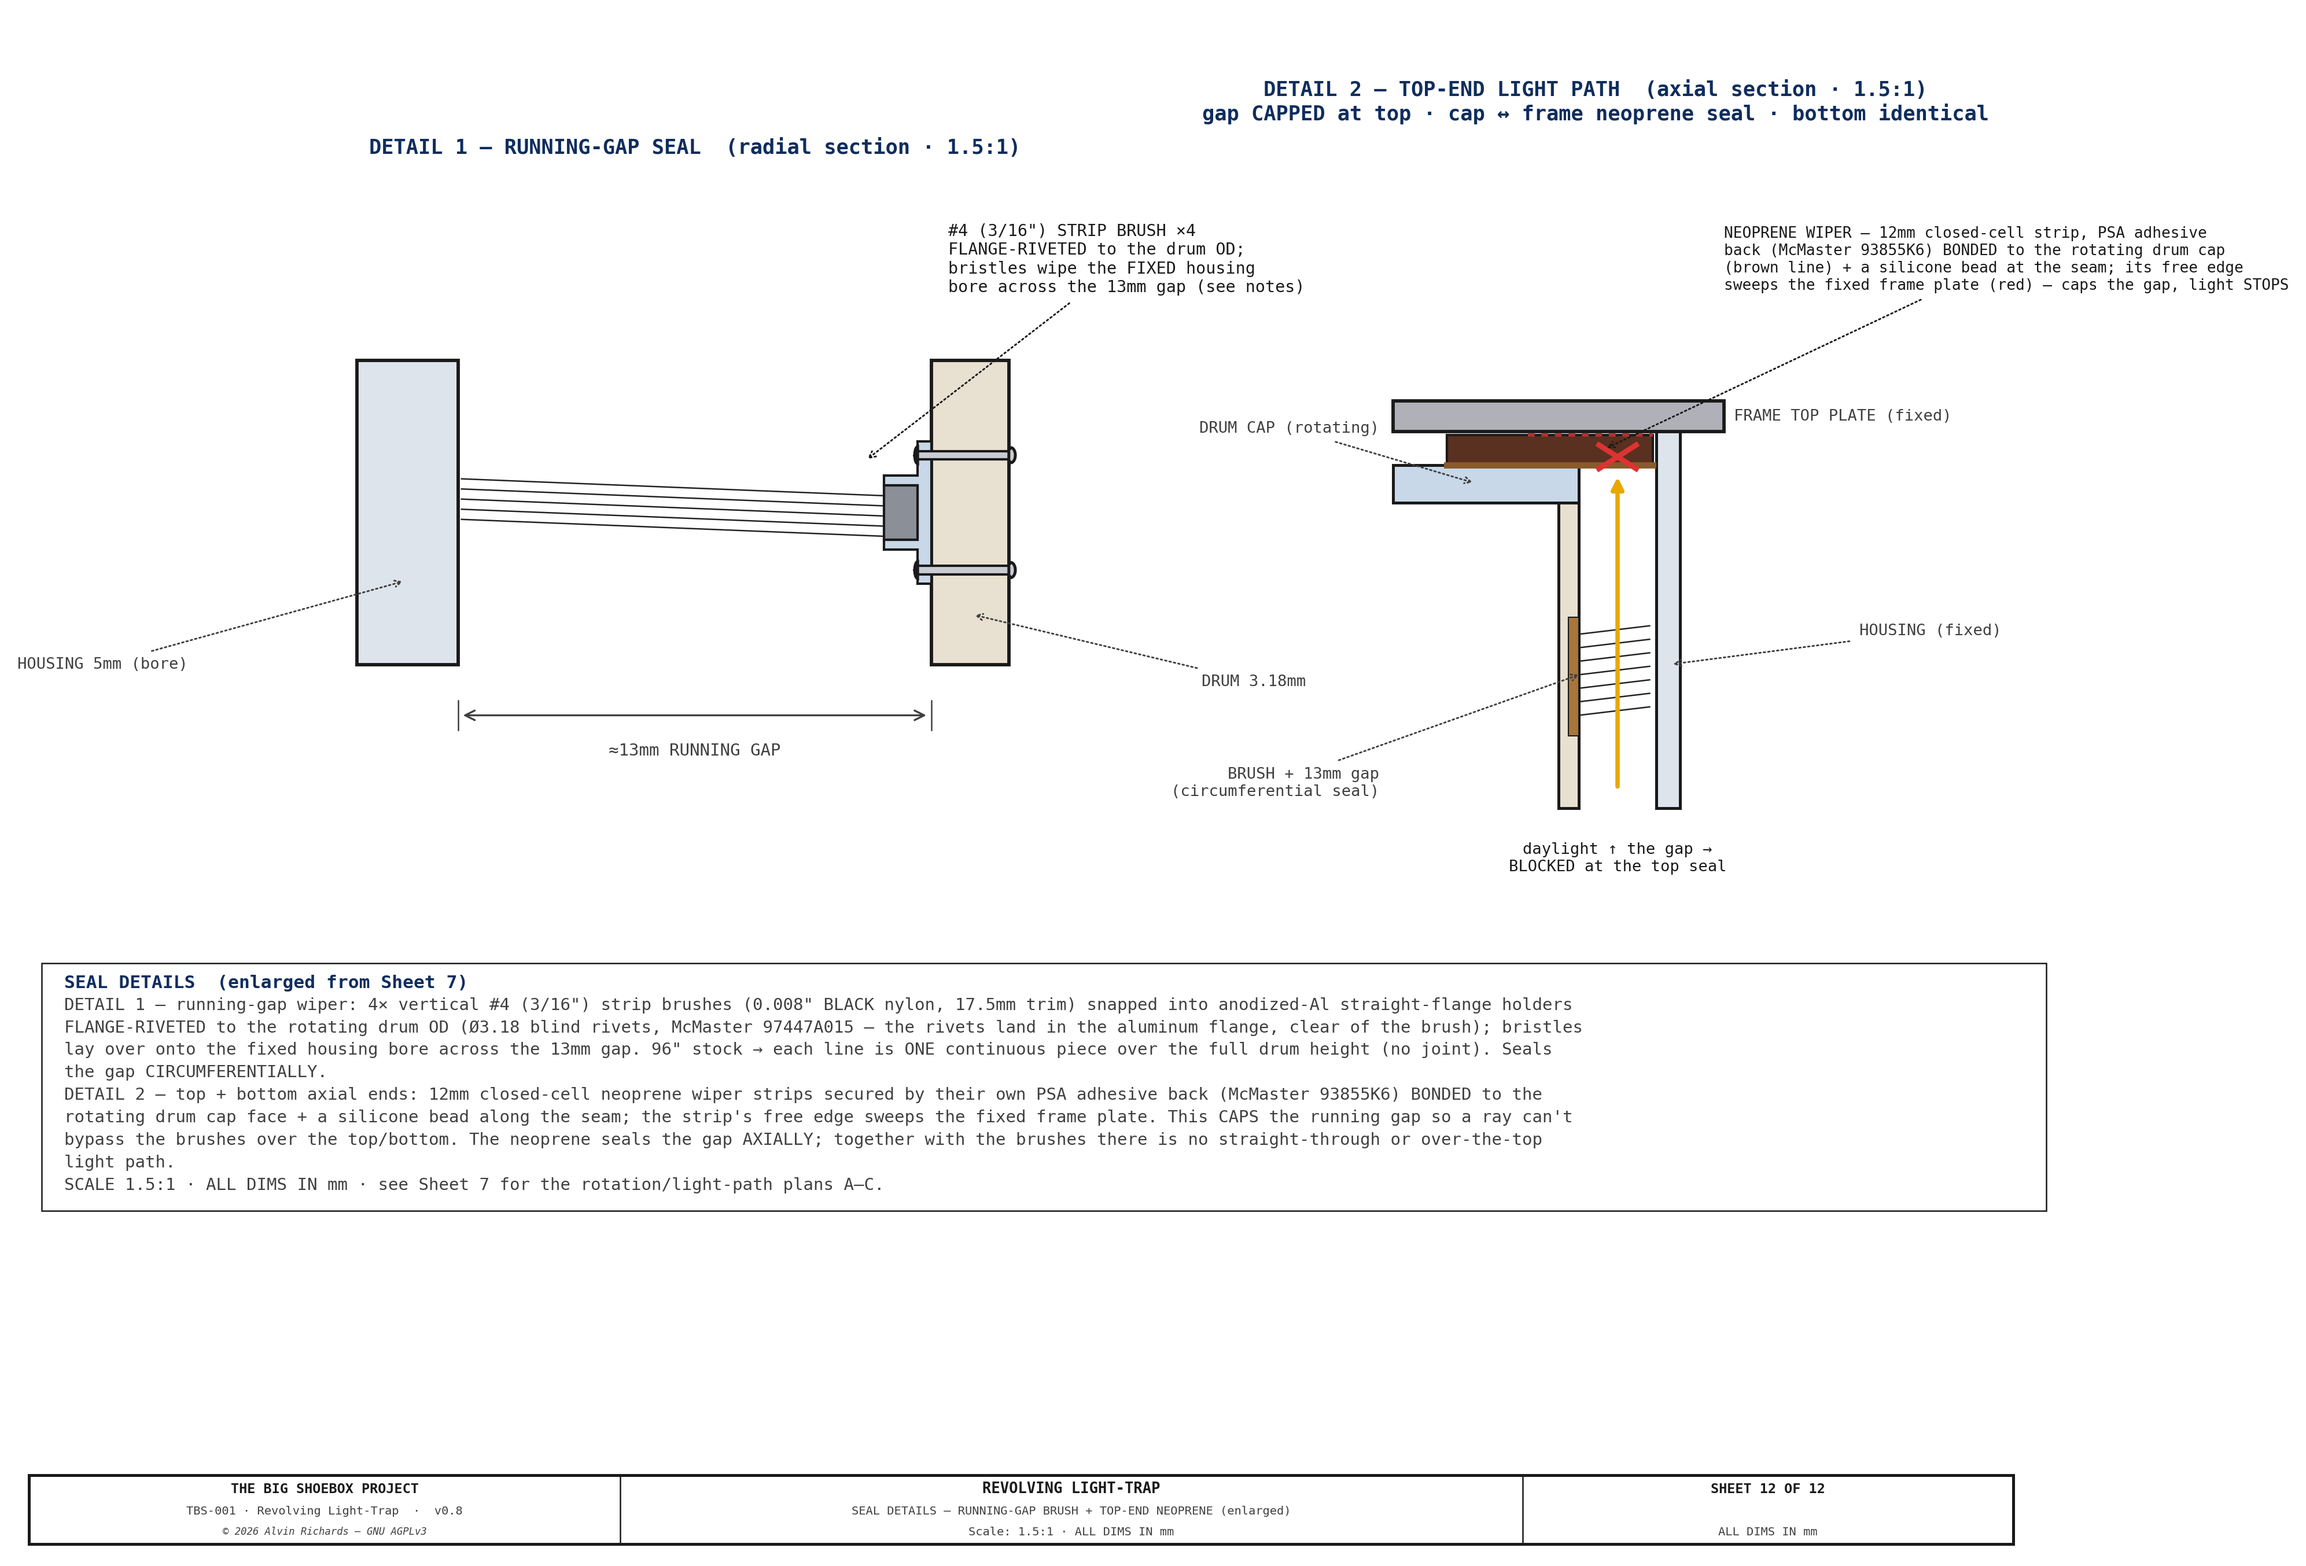
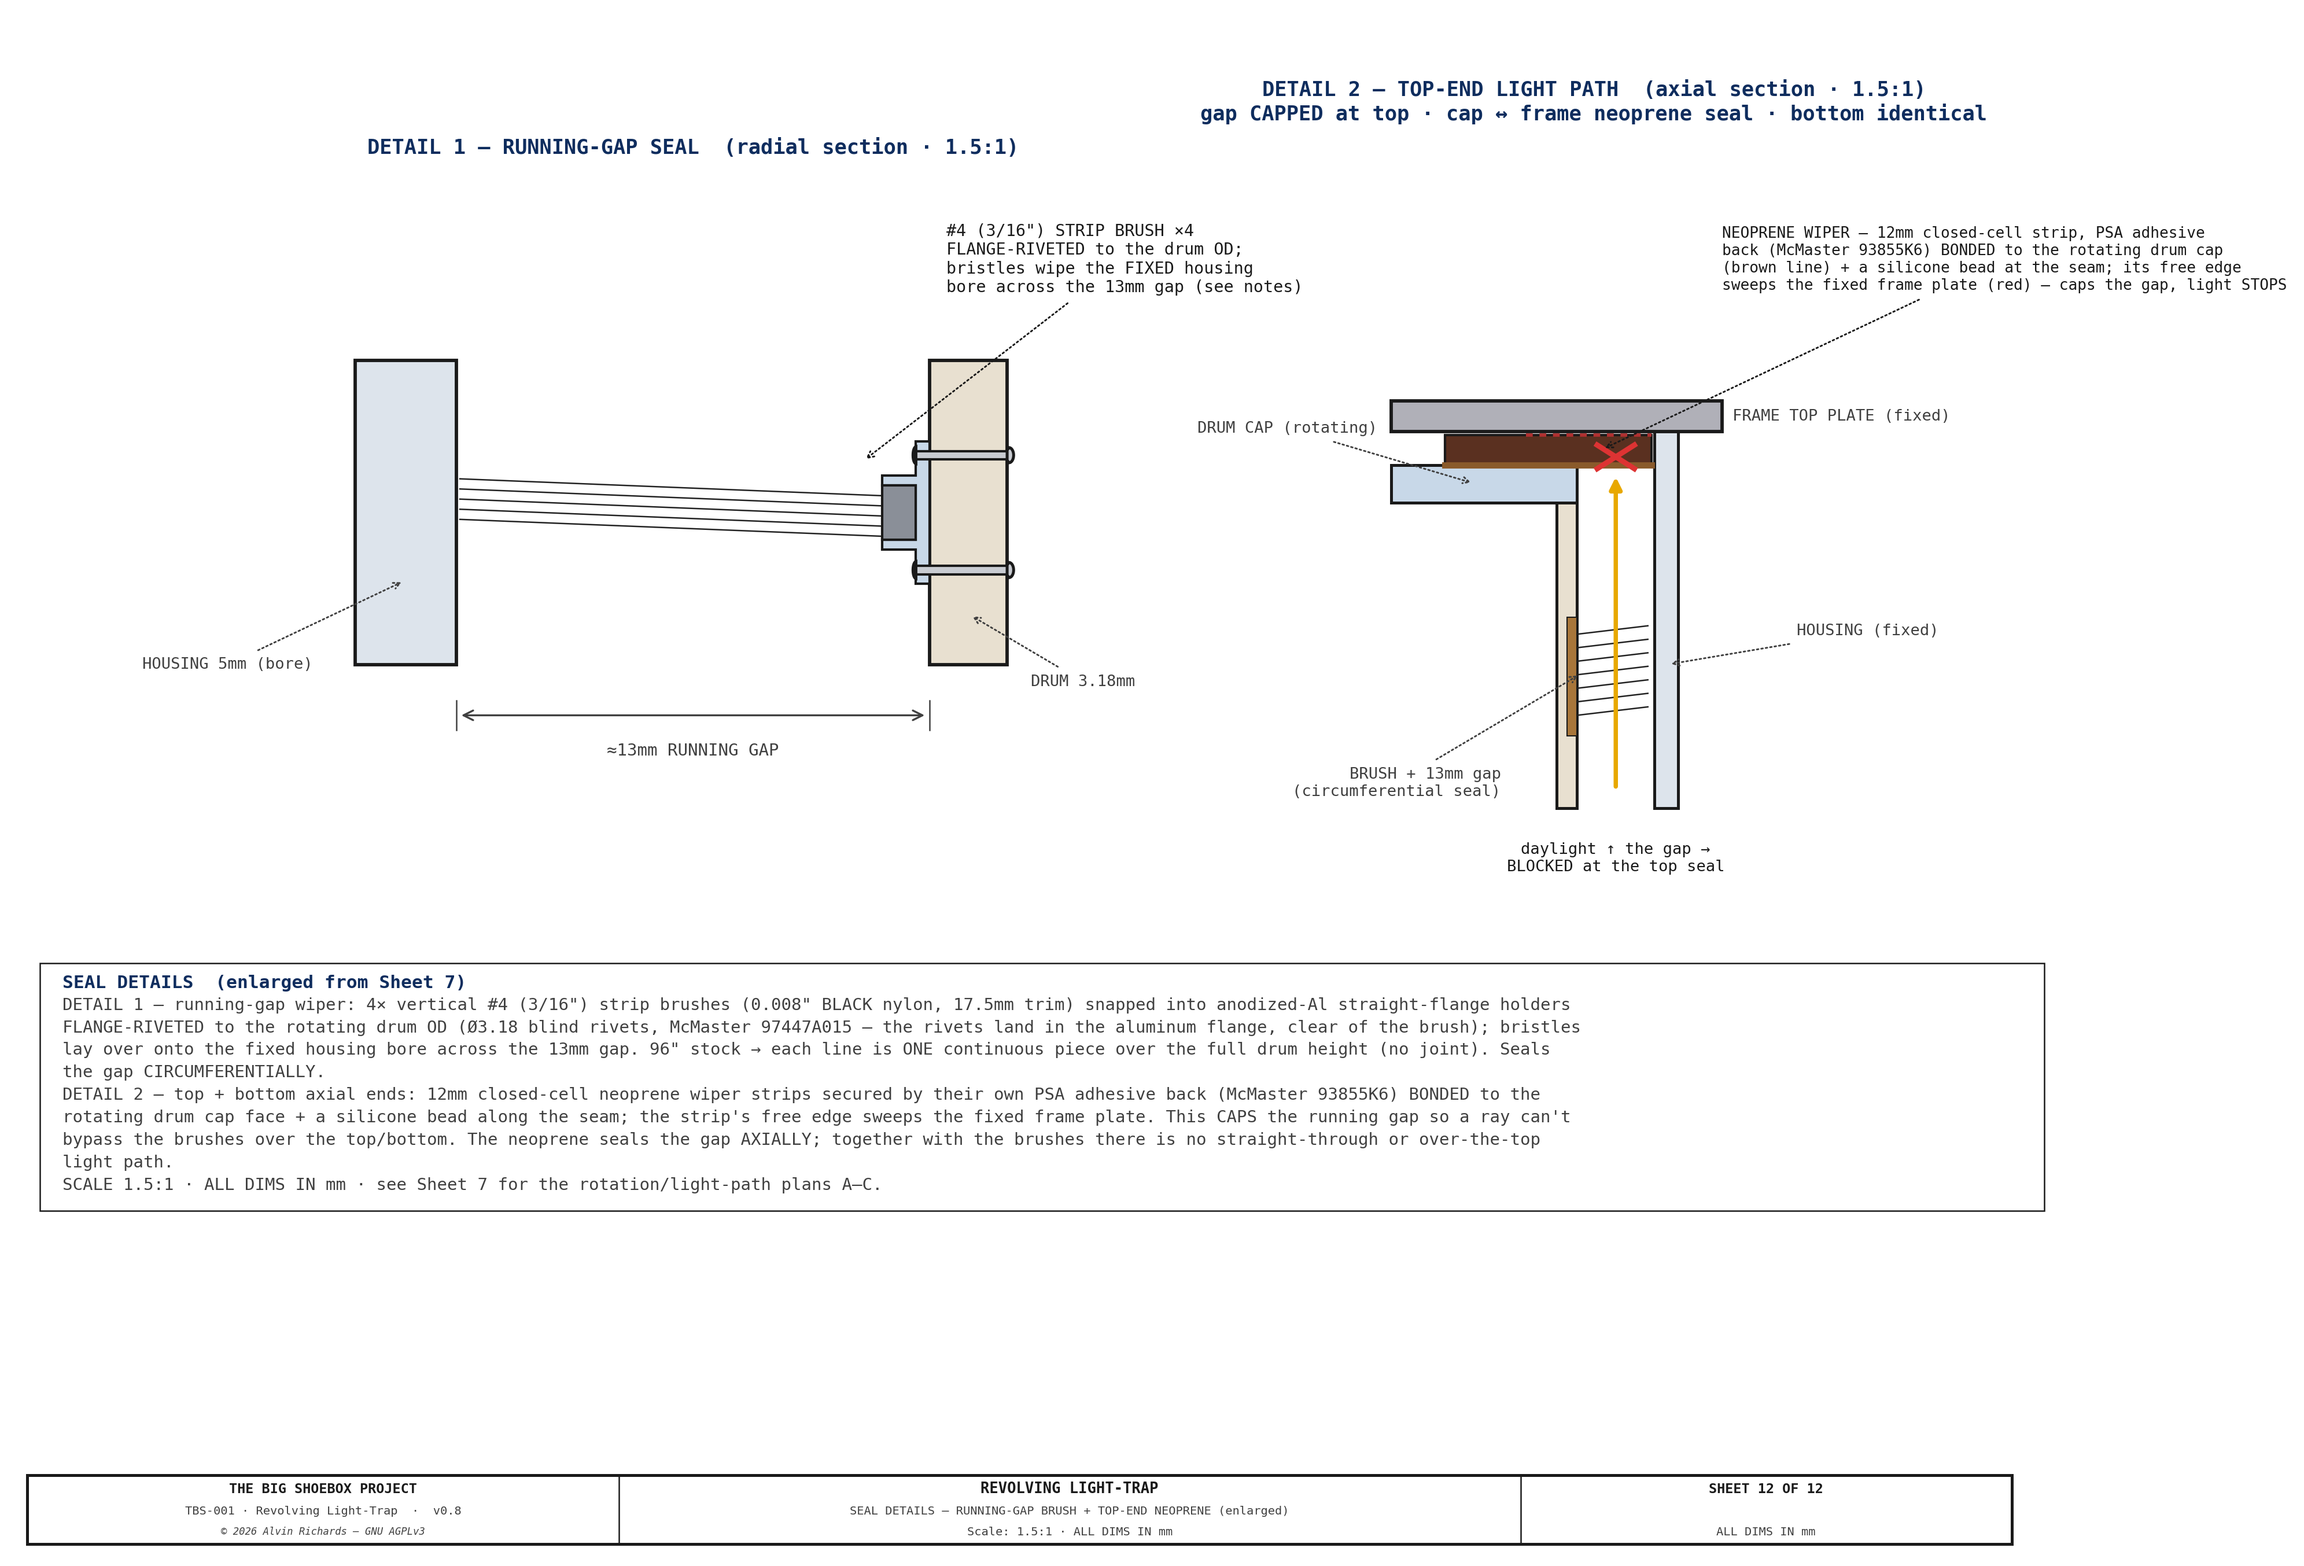
Tidy labels

diff --git a/src/generators/generate_lighttrap_diagram.py b/src/generators/generate_lighttrap_diagram.py
@@ -2056,9 +2056,9 @@ def draw_sheet12():
            f"bristles wipe the FIXED housing\n"
            f"bore across the {RUN_GAP}mm gap (see notes)",
            fs=6.8, color=C_OUT, ha="left", arrow_style="->", font=FONT)
-    leader(ax, SX(-170), SZ(-40), SX(-300), SZ(-90), f"HOUSING {LT_HOUSING_T}mm (bore)", fs=6.5,
+    leader(ax, SX(-170), SZ(-40), SX(-225), SZ(-90), f"HOUSING {LT_HOUSING_T}mm (bore)", fs=6.5,
            color=C_DIM, ha="right", arrow_style="->", font=FONT)
-    leader(ax, SX(163), SZ(-60), SX(300), SZ(-100), f"DRUM {LT_DRUM_T:.2f}mm", fs=6.5,
+    leader(ax, SX(163), SZ(-60), SX(200), SZ(-100), f"DRUM {LT_DRUM_T:.2f}mm", fs=6.5,
            color=C_DIM, ha="left", arrow_style="->", font=FONT)
 
     # ══ DETAIL 2 — TOP-END LIGHT PATH (axial section · 1.5:1) ═════════════════
@@ -2086,8 +2086,8 @@ def draw_sheet12():
            fs=6.3, color=C_OUT, ha="left", arrow_style="->", font=FONT)
     ax.text(TX(82), TZ(57), "FRAME TOP PLATE (fixed)", ha="left", va="center", fontsize=6.5, color=C_DIM, **FONT, zorder=9)
     leader(ax, TX(-70), TZ(17), TX(-128), TZ(50), "DRUM CAP (rotating)", fs=6.5, color=C_DIM, ha="right", arrow_style="->", font=FONT)
-    leader(ax, TX(43), TZ(-90), TX(156), TZ(-70), "HOUSING (fixed)", fs=6.5, color=C_DIM, ha="left", arrow_style="->", font=FONT)
-    leader(ax, TX(-7), TZ(-95), TX(-128), TZ(-160), f"BRUSH + {RUN_GAP}mm gap\n(circumferential seal)", fs=6.5, color=C_DIM, ha="right", arrow_style="->", font=FONT)
+    leader(ax, TX(43), TZ(-90), TX(120), TZ(-70), "HOUSING (fixed)", fs=6.5, color=C_DIM, ha="left", arrow_style="->", font=FONT)
+    leader(ax, TX(-7), TZ(-95), TX(-55), TZ(-160), f"BRUSH + {RUN_GAP}mm gap\n(circumferential seal)", fs=6.5, color=C_DIM, ha="right", arrow_style="->", font=FONT)
     ax.text(TX(13), TZ(-195), "daylight ↑ the gap →\nBLOCKED at the top seal", ha="center", va="top",
             fontsize=6.5, color=C_OUT, **FONT, zorder=9)
 
